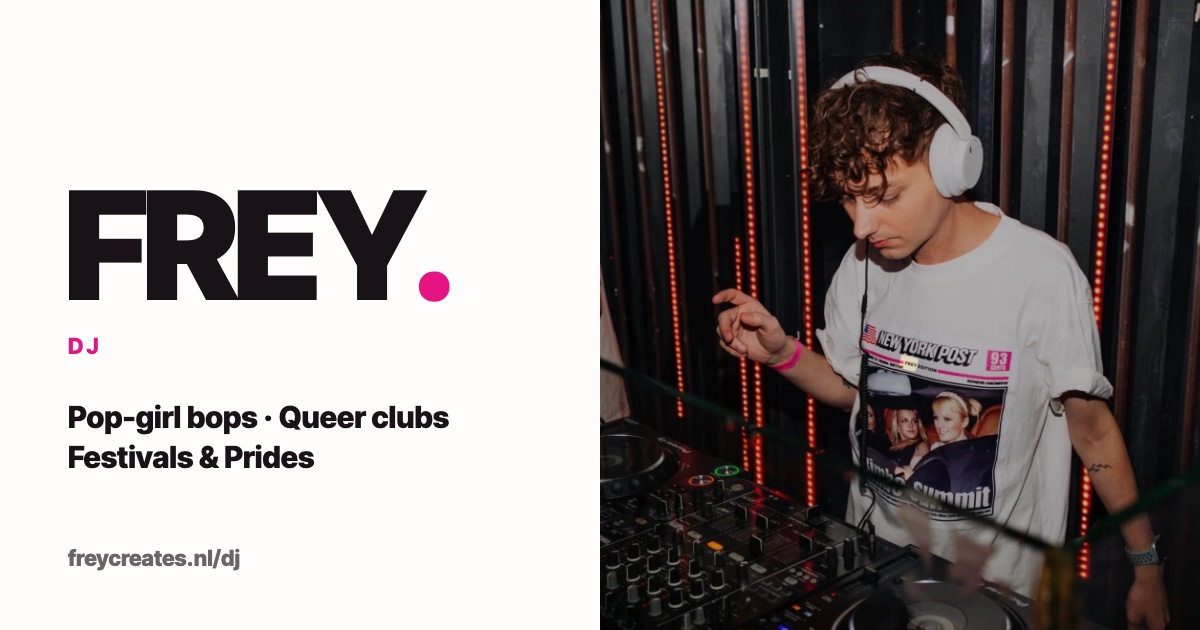
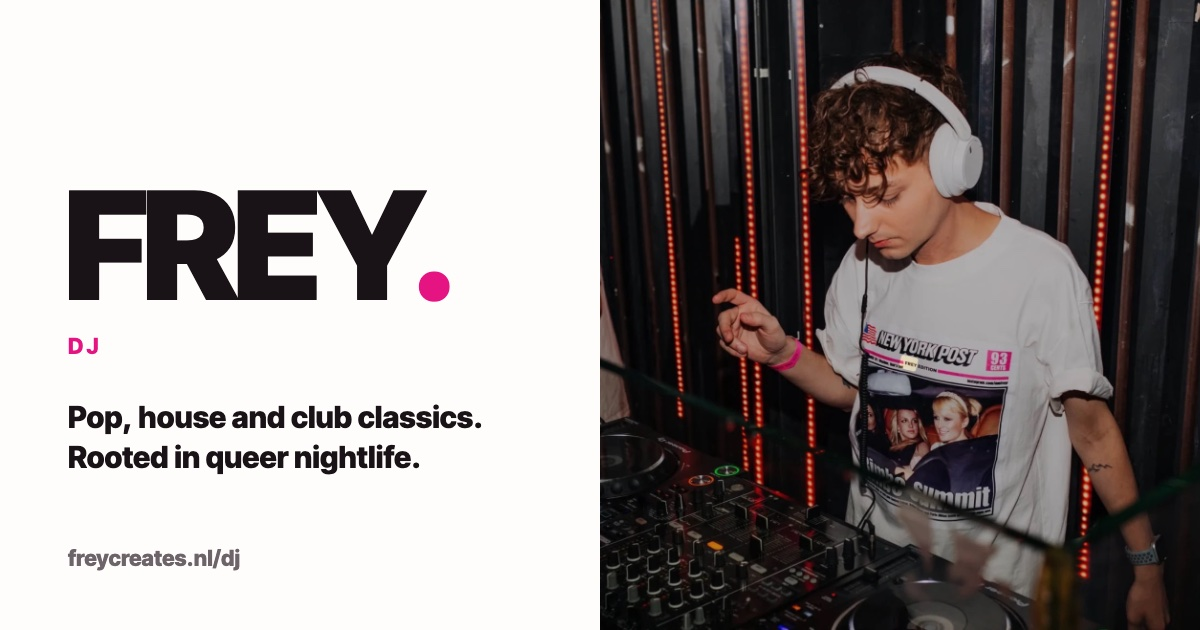
DJ page copy: pop at heart, wider range; Request CV button; IndexNow and SEO updates (Codex)
- /dj: new intro, 'Pop at heart. Built for the dance floor.', new music text (EN + NL)
- /dj title 'DJ FREY. | Queer DJ in Amsterdam' and genre description; link preview line updated
- Homepage: Request CV button under Portfolio (email, CV stays unlisted)
- IndexNow key + ping after every publish, llms.txt and homepage SEO tweaks (by Codex)

Changed region(s): [[0.0617, 0.6333, 0.4008, 0.754]]

diff --git a/dj.html b/dj.html
@@ -3,25 +3,25 @@
 <head>
   <meta charset="utf-8">
   <meta name="viewport" content="width=device-width, initial-scale=1">
-  <meta name="description" content="Book DJ FREY., an Amsterdam DJ playing queer pop, pop-girl bops, remixes and edits for clubs, Pride events and festivals.">
+  <meta name="description" content="DJ FREY is a queer DJ from Amsterdam playing pop, house and club classics, from hyperpop to dance. Gigs, mixes and bookings.">
   <meta name="theme-color" content="#fffaf7">
   <meta name="robots" content="index, follow">
   <link rel="canonical" href="https://freycreates.nl/dj">
   <meta property="og:type" content="profile">
   <meta property="og:url" content="https://freycreates.nl/dj">
   <meta property="og:site_name" content="FREY.">
-  <meta property="og:title" content="DJ FREY. Amsterdam | Queer Pop DJ">
-  <meta property="og:description" content="Amsterdam DJ playing queer pop, pop-girl bops, remixes and edits for clubs, Pride events and festivals.">
+  <meta property="og:title" content="DJ FREY. | Queer DJ in Amsterdam">
+  <meta property="og:description" content="DJ FREY is a queer DJ from Amsterdam playing pop, house and club classics, from hyperpop to dance. Gigs, mixes and bookings.">
   <meta property="og:image" content="https://freycreates.nl/assets/frey-dj-share.jpg">
   <meta property="og:image:alt" content="FREY. DJ, next to a photo of FREY. DJing in a New York Post FREY Edition shirt">
   <meta property="og:image:width" content="1200">
   <meta property="og:image:height" content="630">
   <meta name="twitter:card" content="summary_large_image">
-  <meta name="twitter:title" content="DJ FREY. Amsterdam | Queer Pop DJ">
-  <meta name="twitter:description" content="Amsterdam DJ playing queer pop, pop-girl bops, remixes and edits for clubs, Pride events and festivals.">
+  <meta name="twitter:title" content="DJ FREY. | Queer DJ in Amsterdam">
+  <meta name="twitter:description" content="DJ FREY is a queer DJ from Amsterdam playing pop, house and club classics, from hyperpop to dance. Gigs, mixes and bookings.">
   <meta name="twitter:image" content="https://freycreates.nl/assets/frey-dj-share.jpg">
   <meta name="twitter:image:alt" content="FREY. DJ, next to a photo of FREY. DJing in a New York Post FREY Edition shirt">
-  <title>DJ FREY. Amsterdam | Queer Pop DJ</title>
+  <title>DJ FREY. | Queer DJ in Amsterdam</title>
   <link rel="icon" type="image/png" sizes="48x48" href="assets/frey-icon-48.png">
   <link rel="icon" type="image/png" sizes="512x512" href="assets/frey-icon.png">
   <link rel="apple-touch-icon" href="assets/frey-icon-180.png">
@@ -40,10 +40,11 @@
     "image": "https://freycreates.nl/assets/frey-dj-share.jpg",
     "email": "hello@freycreates.nl",
     "jobTitle": "DJ",
-    "genre": ["Queer pop", "Pop", "Dance", "Disco", "House"],
-    "description": "DJ FREY. is an Amsterdam DJ playing queer pop, pop-girl bops, remixes and edits for clubs, Pride events and festivals.",
+    "genre": ["Pop", "Hyperpop", "Dance", "House", "Club classics"],
+    "description": "DJ FREY is a queer DJ from Amsterdam playing pop, house and club classics, from hyperpop to dance. Gigs, mixes and bookings.",
     "homeLocation": {"@type": "Place", "name": "Amsterdam, Netherlands"},
     "areaServed": ["Amsterdam", "Rotterdam", "Netherlands", "Brussels", "Singapore"],
+    "knowsAbout": ["Amsterdam queer DJ", "Rotterdam queer DJ", "gay club DJ", "club DJ", "queer party DJ", "Netherlands queer DJ", "queer pop", "Pride events"],
     "sameAs": [
       "https://instagram.com/frey.audio",
       "https://soundcloud.com/freyr-music",
@@ -188,7 +189,7 @@
     }
   </style>
 </head>
-<body data-title-en="DJ FREY. Amsterdam | Queer Pop DJ" data-title-nl="DJ FREY. Amsterdam | Queer Pop DJ" data-description-en="Book DJ FREY., an Amsterdam DJ playing queer pop, pop-girl bops, remixes and edits for clubs, Pride events and festivals." data-description-nl="Boek DJ FREY., een Amsterdam DJ met queer pop, pop-girl bops, remixes en edits voor clubs, Pride-events en festivals.">
+<body data-title-en="DJ FREY. | Queer DJ in Amsterdam" data-title-nl="DJ FREY. | Queer DJ in Amsterdam" data-description-en="DJ FREY is a queer DJ from Amsterdam playing pop, house and club classics, from hyperpop to dance. Gigs, mixes and bookings." data-description-nl="DJ FREY is een queer DJ uit Amsterdam met pop, house en clubklassiekers, van hyperpop tot dance. Gigs, mixes en boekingen.">
   <main class="shell">
     <article class="card">
       <nav class="topbar" aria-label="DJ page navigation">
@@ -204,7 +205,7 @@
         </div>
         <div class="hero-copy">
           <h1>FREY<span class="dot">.</span></h1>
-          <p class="lead" data-en="DJ FREY. is an Amsterdam pop-culture enthusiast raised on Gaga, Britney and ABBA, finding religion in the queer club scene. In my sets, discover your own church through pop girls from today and yesterday." data-nl="DJ FREY. is een Amsterdam popcultuurliefhebber, opgegroeid met Gaga, Britney en ABBA, die zijn geloof vindt in de queer clubscene. Ontdek in mijn sets je eigen kerk via de pop girls van vandaag en gisteren.">DJ FREY. is an Amsterdam pop-culture enthusiast raised on Gaga, Britney and ABBA, finding religion in the queer club scene. In my sets, discover your own church through pop girls from today and yesterday.</p>
+          <p class="lead" data-en="Raised on Gaga, Britney and ABBA, finding religion in the queer club scene. My sets go from pop-girl bops to hyperpop, dance and house: big singalongs and harder peaks, all in one night." data-nl="Opgegroeid met Gaga, Britney en ABBA, mijn geloof gevonden in de queer clubscene. Mijn sets gaan van pop-girl bops naar hyperpop, dance en house: grote meezingers en hardere pieken, allemaal in één nacht.">Raised on Gaga, Britney and ABBA, finding religion in the queer club scene. My sets go from pop-girl bops to hyperpop, dance and house: big singalongs and harder peaks, all in one night.</p>
           <div class="hero-actions">
             <a class="button button-primary" href="mailto:hello@freycreates.nl"><svg viewBox="0 0 24 24" aria-hidden="true"><rect x="3" y="5" width="18" height="14" rx="2"/><path d="m4 7 8 6 8-6"/></svg><span data-en="Book me for a DJ set" data-nl="Boek mij voor een DJ-set">Book me for a DJ set</span></a>
             <a class="button button-secondary" href="#dates"><svg viewBox="0 0 24 24" aria-hidden="true"><rect x="3" y="5" width="18" height="16" rx="2"/><path d="M3 10h18M8 3v4M16 3v4"/></svg><span data-en="Calendar" data-nl="Agenda">Calendar</span></a>
@@ -218,9 +219,9 @@
       <div class="story-grid">
         <div>
           <p class="section-label" data-en="About" data-nl="Over">About</p>
-          <h2 id="about-title" data-en="DJ FREY. behind the decks" data-nl="DJ FREY. achter de draaitafels">DJ FREY. behind the decks</h2>
+          <h2 id="about-title" data-en="DJ FREY. behind the decks in Amsterdam and Rotterdam" data-nl="DJ FREY. achter de draaitafels in Amsterdam en Rotterdam">DJ FREY. behind the decks in Amsterdam and Rotterdam</h2>
           <p data-en="I first started DJing in 2015 and played until 2017. After a hiatus, with a pandemic somewhere in the middle, I found my way back behind the decks at a friend’s Halloween party in 2022. That night reminded me how much I had missed building a set, reading a room and sharing those pop moments with a crowd." data-nl="Ik begon in 2015 met draaien en speelde tot 2017. Na een pauze, met ergens daartussen een pandemie, belandde ik in 2022 weer achter de draaitafels tijdens het Halloweenfeest van een vriend. Die avond herinnerde me eraan hoeveel ik het had gemist om een set op te bouwen, de zaal aan te voelen en die popmomenten met een publiek te delen.">I first started DJing in 2015 and played until 2017. After a hiatus, with a pandemic somewhere in the middle, I found my way back behind the decks at a friend’s Halloween party in 2022. That night reminded me how much I had missed building a set, reading a room and sharing those pop moments with a crowd.</p>
-          <p data-en="Since then, I have become a regular at queer clubs and festivals in Amsterdam, across the Netherlands, Brussels and Singapore." data-nl="Sindsdien ben ik regelmatig te vinden in queer clubs en op festivals in Amsterdam, door Nederland, Brussel en Singapore.">Since then, I have become a regular at queer clubs and festivals in Amsterdam, across the Netherlands, Brussels and Singapore.</p>
+          <p data-en="Since then, I have become a regular at queer clubs, gay club nights and festivals in Amsterdam, Rotterdam, across the Netherlands, Brussels and Singapore." data-nl="Sindsdien ben ik regelmatig te vinden in queer clubs, gay club nights en op festivals in Amsterdam, Rotterdam, door Nederland, Brussel en Singapore.">Since then, I have become a regular at queer clubs, gay club nights and festivals in Amsterdam, Rotterdam, across the Netherlands, Brussels and Singapore.</p>
         </div>
         <img class="story-photo" loading="lazy" decoding="async" src="assets/dj-world-pride-stage.jpg" alt="FREY. DJing at WorldPride Amsterdam 2026">
       </div>
@@ -231,9 +232,8 @@
         <img class="music-photo" loading="lazy" decoding="async" src="assets/dj-cap.jpg" alt="FREY. performing behind the decks in a white cap">
         <div>
           <p class="section-label" data-en="The music" data-nl="De muziek">The music</p>
-          <h2 id="music-title" data-en="Pop-girl bops with a dance-floor pulse" data-nl="Pop-girl bops met een dancefloor-puls">Pop-girl bops with a dance-floor pulse</h2>
-          <p data-en="My sets centre on pop-girl bops, weaving together remixes, my own edits and influences from dance, disco and house. I love moving between big shared pop moments and the niche tracks that deserve a louder audience." data-nl="Mijn sets draaien om pop-girl bops, waarin remixes, mijn eigen edits en invloeden uit dance, disco en house samenkomen. Ik wissel graag grote gedeelde popmomenten af met nichetracks die een groter publiek verdienen.">My sets centre on pop-girl bops, weaving together remixes, my own edits and influences from dance, disco and house. I love moving between big shared pop moments and the niche tracks that deserve a louder audience.</p>
-          <p data-en="Introducing a crowd to new artists is one of my favourite parts of playing, especially artists I believe deserve more recognition from queer audiences." data-nl="Een publiek kennis laten maken met nieuwe artiesten is een van mijn favoriete onderdelen van draaien, vooral artiesten die volgens mij meer erkenning verdienen van een queer publiek.">Introducing a crowd to new artists is one of my favourite parts of playing, especially artists I believe deserve more recognition from queer audiences.</p>
+          <h2 id="music-title" data-en="Pop at heart. Built for the dance floor." data-nl="Pop in mijn hart. Gemaakt voor de dansvloer.">Pop at heart. Built for the dance floor.</h2>
+          <p data-en="Pop is home. A pop crowd gets every chorus, a house crowd gets the drops, and most nights get both. I read the room and take it from Gaga to hyperpop to four-to-the-floor, with remixes, my own edits and the tracks you didn’t know you needed." data-nl="Pop is thuis. Een poppubliek krijgt elk refrein, een housepubliek krijgt de drops, en de meeste avonden krijgen allebei. Ik lees de zaal en neem je mee van Gaga naar hyperpop naar four-to-the-floor, met remixes, mijn eigen edits en de tracks waarvan je niet wist dat je ze nodig had.">Pop is home. A pop crowd gets every chorus, a house crowd gets the drops, and most nights get both. I read the room and take it from Gaga to hyperpop to four-to-the-floor, with remixes, my own edits and the tracks you didn’t know you needed.</p>
         </div>
       </div>
     </section>
@@ -264,7 +264,7 @@
 
     <section class="card contact" aria-labelledby="contact-title">
       <h2 id="contact-title" data-en="Let’s find the right pop moment" data-nl="Laten we het juiste popmoment vinden">Let’s find the right pop moment</h2>
-      <p data-en="For club nights, festivals, Pride events, radio sets and collaborations." data-nl="Voor clubnachten, festivals, Pride-evenementen, radiosets en samenwerkingen.">For club nights, festivals, Pride events, radio sets and collaborations.</p>
+      <p data-en="For Amsterdam and Rotterdam club nights, queer parties, gay events, Pride line-ups, radio sets and collaborations." data-nl="Voor clubnachten in Amsterdam en Rotterdam, queer parties, gay events, Pride-line-ups, radiosets en samenwerkingen.">For Amsterdam and Rotterdam club nights, queer parties, gay events, Pride line-ups, radio sets and collaborations.</p>
       <div class="contact-actions">
         <a class="button button-primary" href="mailto:hello@freycreates.nl">hello@freycreates.nl</a>
         <a class="button button-secondary" href="rider.html" data-en="Technical rider" data-nl="Technische rider">Technical rider</a>

diff --git a/index.html b/index.html
@@ -3,25 +3,25 @@
 <head>
   <meta charset="utf-8">
   <meta name="viewport" content="width=device-width, initial-scale=1">
-  <meta name="description" content="DJ FREY. is an Amsterdam DJ and multidisciplinary creative for queer pop sets, social media, social-first content and design.">
+  <meta name="description" content="DJ FREY. is an Amsterdam and Rotterdam queer DJ and multidisciplinary creative for gay club nights, queer parties, social media, content and design.">
   <meta name="robots" content="index, follow">
   <meta name="theme-color" content="#fffaf7">
   <link rel="canonical" href="https://freycreates.nl/">
   <meta property="og:type" content="website">
   <meta property="og:url" content="https://freycreates.nl/">
   <meta property="og:site_name" content="FREY.">
-  <meta property="og:title" content="DJ FREY. Amsterdam | DJ &amp; Multidisciplinary Creative">
-  <meta property="og:description" content="Amsterdam DJ and multidisciplinary creative for queer pop sets, social media, social-first content and design.">
+  <meta property="og:title" content="DJ FREY. Amsterdam &amp; Rotterdam | Queer DJ &amp; Creative">
+  <meta property="og:description" content="Amsterdam and Rotterdam queer DJ and multidisciplinary creative for gay club nights, queer parties, social media, content and design.">
   <meta property="og:image" content="https://freycreates.nl/assets/frey-share.png">
   <meta property="og:image:width" content="1200">
   <meta property="og:image:height" content="630">
   <meta property="og:image:alt" content="FREY. wordmark next to a photo of FREY. DJing in a club">
   <meta name="twitter:card" content="summary_large_image">
-  <meta name="twitter:title" content="DJ FREY. Amsterdam | DJ &amp; Multidisciplinary Creative">
-  <meta name="twitter:description" content="Amsterdam DJ and multidisciplinary creative for queer pop sets, social media, social-first content and design.">
+  <meta name="twitter:title" content="DJ FREY. Amsterdam &amp; Rotterdam | Queer DJ &amp; Creative">
+  <meta name="twitter:description" content="Amsterdam and Rotterdam queer DJ and multidisciplinary creative for gay club nights, queer parties, social media, content and design.">
   <meta name="twitter:image" content="https://freycreates.nl/assets/frey-share.png">
   <meta name="twitter:image:alt" content="FREY. wordmark next to a photo of FREY. DJing in a club">
-  <title>DJ FREY. Amsterdam | DJ &amp; Multidisciplinary Creative</title>
+  <title>DJ FREY. Amsterdam &amp; Rotterdam | Queer DJ &amp; Creative</title>
   <link rel="icon" type="image/png" sizes="48x48" href="assets/frey-icon-48.png">
   <link rel="icon" type="image/png" sizes="512x512" href="assets/frey-icon.png">
   <link rel="apple-touch-icon" href="assets/frey-icon-180.png">
@@ -36,12 +36,13 @@
     "name": "FREY.",
     "alternateName": ["DJ FREY", "Frey Creates", "Jeffrey K"],
     "url": "https://freycreates.nl/",
-    "description": "DJ FREY. is an Amsterdam DJ and multidisciplinary creative working across queer pop DJ sets, social media management, social-first content and design.",
+    "description": "DJ FREY. is an Amsterdam and Rotterdam queer DJ and multidisciplinary creative working across gay club nights, queer parties, social media management, social-first content and design.",
     "image": "https://freycreates.nl/assets/frey-face.png",
     "email": "hello@freycreates.nl",
     "jobTitle": "DJ and multidisciplinary creative",
-    "knowsAbout": ["DJ sets", "Amsterdam nightlife", "queer pop", "social media management", "social-first content", "design"],
+    "knowsAbout": ["DJ sets", "Amsterdam nightlife", "Rotterdam nightlife", "queer DJ sets", "gay club nights", "queer parties", "queer pop", "social media management", "social-first content", "design"],
     "homeLocation": {"@type": "Place", "name": "Amsterdam, Netherlands"},
+    "areaServed": ["Amsterdam", "Rotterdam", "Netherlands"],
     "sameAs": [
       "https://instagram.com/frey.audio",
       "https://soundcloud.com/freyr-music",
@@ -58,7 +59,7 @@
     "name": "FREY.",
     "url": "https://freycreates.nl/",
     "inLanguage": ["en", "nl"],
-    "description": "Official website for DJ FREY., an Amsterdam DJ and multidisciplinary creative.",
+    "description": "Official website for DJ FREY., an Amsterdam and Rotterdam queer DJ and multidisciplinary creative.",
     "publisher": {"@id": "https://freycreates.nl/#artist"}
   }
   </script>
@@ -260,17 +261,22 @@
       #music .tile .platform-button span{position:absolute;width:1px;height:1px;overflow:hidden;clip:rect(0 0 0 0)}
       #music .tile .platform-icon{width:14px;height:14px;flex-basis:14px}
     }
+    /* Request CV under the portfolio: by email, so the CV isn't public. */
+    .work-cta{margin:22px 0 0}
+    #work .cv-request{display:inline-flex;align-items:center;gap:9px;min-height:48px;padding:11px 18px;border:1px solid #191317;border-radius:10px;background:#191317;color:#fffdfb;font-weight:800;text-decoration:none}
+    #work .cv-request svg{width:17px;height:17px;fill:none;stroke:#e61482;stroke-width:1.9;stroke-linecap:round;stroke-linejoin:round}
+    #work .cv-request:hover{transform:translateY(-1px)}
   </style>
 </head>
-<body data-title-en="DJ FREY. Amsterdam | DJ & Creative" data-title-nl="DJ FREY. Amsterdam | DJ & Creative" data-description-en="DJ FREY. is an Amsterdam DJ and multidisciplinary creative for queer pop sets, social media, social-first content and design." data-description-nl="DJ FREY. is een Amsterdam DJ en multidisciplinair creative voor queer pop sets, social media, social-first content en design.">
+<body data-title-en="DJ FREY. Amsterdam & Rotterdam | Queer DJ & Creative" data-title-nl="DJ FREY. Amsterdam & Rotterdam | Queer DJ & Creative" data-description-en="DJ FREY. is an Amsterdam and Rotterdam queer DJ and multidisciplinary creative for gay club nights, queer parties, social media, content and design." data-description-nl="DJ FREY. is een Amsterdam en Rotterdam queer DJ en multidisciplinair creative voor gay club nights, queer parties, social media, content en design.">
   <main class="shell">
     <article class="card hero-card" id="hero">
       <header class="hero-b">
         <div class="hero-b-copy">
           <div class="hero-lang"><div class="lang-switch" aria-label="Language"><button type="button" data-lang="en" aria-pressed="true">EN</button><button type="button" data-lang="nl" aria-pressed="false">NL</button></div></div>
           <h1 class="wordmark">FREY<span class="dot">.</span></h1>
-          <p class="eyebrow">Amsterdam DJ · Creative · Social media</p>
-          <p class="bio" id="bio" data-en="DJ FREY. is an Amsterdam DJ and multidisciplinary creative raised on pop culture, queer nightlife and the internet. Chronically online in the best way, I work across social media management, social-first content and design for organizations, events and creative projects." data-nl="DJ FREY. is een Amsterdam DJ en multidisciplinair creative, opgegroeid met popcultuur, queer nightlife en het internet. Chronically online op de beste manier, werk ik aan social media management, social-first content en design voor organisaties, events en creatieve projecten.">DJ FREY. is an Amsterdam DJ and multidisciplinary creative raised on pop culture, queer nightlife and the internet. Chronically online in the best way, I work across social media management, social-first content and design for organizations, events and creative projects.</p>
+          <p class="eyebrow">Amsterdam queer DJ · Rotterdam club DJ · Creative</p>
+          <p class="bio" id="bio" data-en="DJ FREY. is an Amsterdam and Rotterdam queer DJ and multidisciplinary creative raised on pop culture, queer nightlife and the internet. Chronically online in the best way, I work across social media management, social-first content and design for organizations, events and creative projects." data-nl="DJ FREY. is een Amsterdam en Rotterdam queer DJ en multidisciplinair creative, opgegroeid met popcultuur, queer nightlife en het internet. Chronically online op de beste manier, werk ik aan social media management, social-first content en design voor organisaties, events en creatieve projecten.">DJ FREY. is an Amsterdam and Rotterdam queer DJ and multidisciplinary creative raised on pop culture, queer nightlife and the internet. Chronically online in the best way, I work across social media management, social-first content and design for organizations, events and creative projects.</p>
           <button class="bio-toggle" type="button" aria-controls="bio" aria-expanded="false"><span class="bio-more" data-en="Read more" data-nl="Lees meer">Read more</span><span class="bio-less" data-en="Read less" data-nl="Lees minder">Read less</span></button>
           <nav class="actions" aria-label="Main links">
               <a class="button" href="mailto:hello@freycreates.nl">
@@ -308,7 +314,7 @@
             <div class="project-dj-visual"><img loading="lazy" decoding="async" src="assets/dj-world-pride-card.jpg" alt="FREY. DJing at WorldPride Amsterdam 2026"></div>
             <div class="project-dj-copy">
               <h3 data-en="DJ FREY. behind the decks" data-nl="DJ FREY. achter de draaitafels">DJ FREY. behind the decks</h3>
-              <p data-en="Based in Amsterdam and raised on Gaga, Britney and ABBA, I’ve brought pop-girl bops to queer clubs and festivals across the Netherlands and beyond since 2022." data-nl="Based in Amsterdam en opgegroeid met Gaga, Britney en ABBA breng ik sinds 2022 pop-girl bops naar queer clubs en festivals in Nederland en daarbuiten.">Based in Amsterdam and raised on Gaga, Britney and ABBA, I’ve brought pop-girl bops to queer clubs and festivals across the Netherlands and beyond since 2022.</p>
+              <p data-en="Based in Amsterdam and playing often in Rotterdam, I bring pop-girl bops to gay club nights, queer parties and festivals across the Netherlands and beyond." data-nl="Based in Amsterdam en vaak te horen in Rotterdam breng ik pop-girl bops naar gay club nights, queer parties en festivals in Nederland en daarbuiten.">Based in Amsterdam and playing often in Rotterdam, I bring pop-girl bops to gay club nights, queer parties and festivals across the Netherlands and beyond.</p>
               <a class="dj-read-more" href="/dj" data-en="Read more" data-nl="Lees meer">Read more</a>
             </div>
           </article>
@@ -345,6 +351,7 @@
             <span class="project-copy"><strong>Evert Groot / Absoluut <svg class="external-icon" viewBox="0 0 16 16" aria-hidden="true"><path d="M3 13 13 3M6 3h7v7"/></svg></strong><span data-en="Website design and build" data-nl="Websiteontwerp en -bouw">Website design and build</span><span>2026</span></span>
           </a>
         </div>
+        <p class="work-cta"><a class="button cv-request" href="mailto:hello@freycreates.nl?subject=CV%20request"><svg viewBox="0 0 24 24" aria-hidden="true"><path d="M7 3h7l5 5v13H7z"/><path d="M14 3v5h5M10 13h6M10 17h6"/></svg><span data-en="Request CV" data-nl="CV opvragen">Request CV</span></a></p>
       </section>
 
       <section class="card content" id="music" aria-labelledby="music-title">
